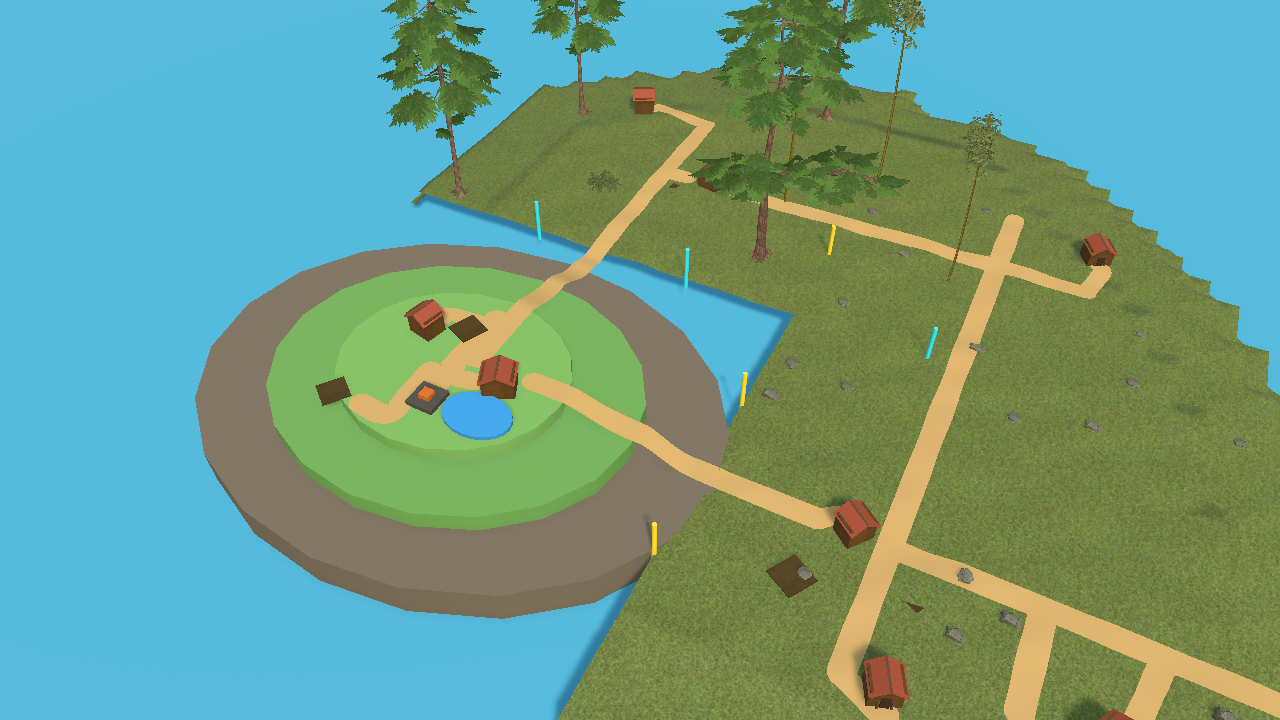
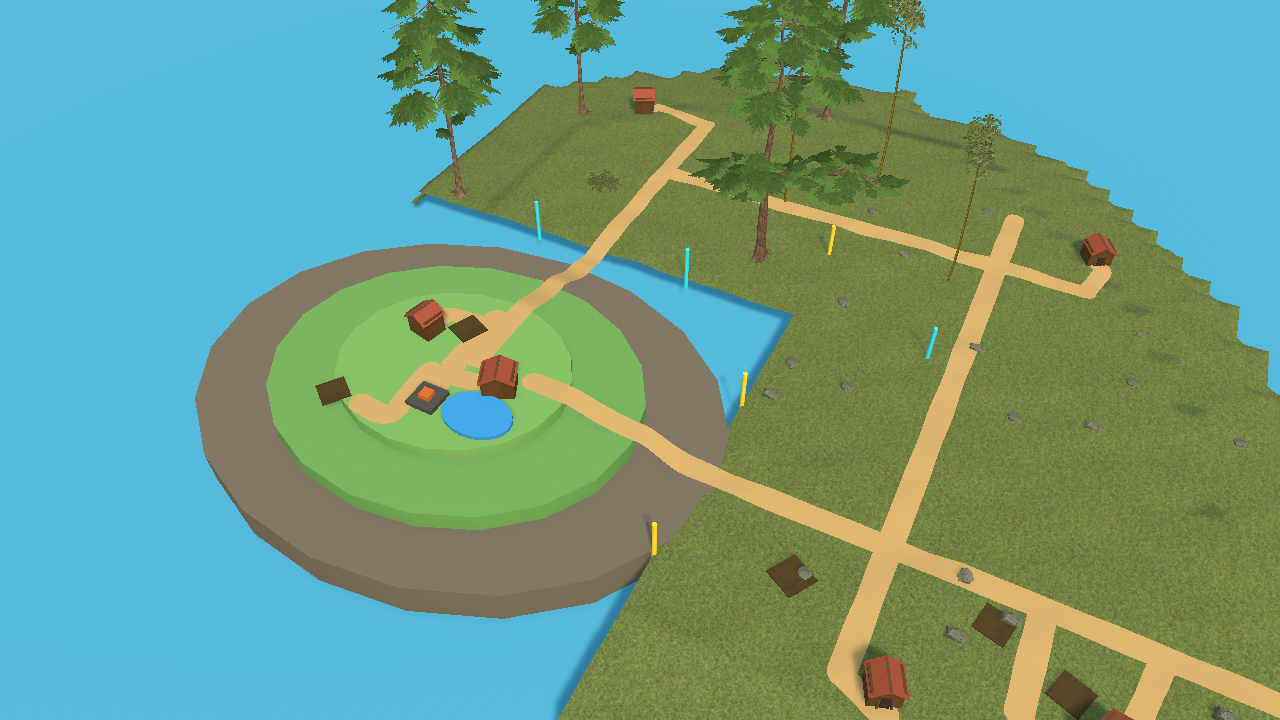
docs(cozy-diorama): update Stage C-3G Unity 6 report and shots after bridge guard

diff --git a/Docs/CozyDiorama/STAGE-C3G-UNITY-VERIFICATION-REPORT.md b/Docs/CozyDiorama/STAGE-C3G-UNITY-VERIFICATION-REPORT.md
@@ -1,76 +1,71 @@
-# Stage C-3G — Unity 6 Verification Report
+# Stage C-3G — Unity 6 Verification Report (Junction + Bridge / Cut-Vertex Guard)
 
 - **Branch:** `audit/cozy-diorama-stage-c3g-junction-growth`
-- **Verified baseline commit:** `7cf60e7` (`SettlementSimulation.cs` untouched during verification)
 - **Unity version:** `6000.6.5f1` (URP, batchmode with GPU rendering, isolated worktree `AFKIsland-c3e`)
 - **Feature flag default:** `HomeSettlementVisualizer.useContinuousPathNetworkRenderer = false` (verified unchanged)
+- **Unchanged systems:** Save v8 format, `WorldGrowthConfig`, growth pace, settlement caps, RNG, `ResidentPathGraph`, `Stone -> Hut` rule, existing saved huts
 - **Protected scenes:** all 6 (`MainIsland.unity`, `CozyDioramaStageB2`, `C2`, `C3C`, `C3D`, `C3E`) verified unchanged by SHA-256
 
 ---
 
 ## Executive Summary
 
-| # | Check | Result | Key Metrics / Evidence |
-|---|---|---|---|
-| 1a | Compile baseline on unmodified `7cf60e7` | **FAIL → FIXED** | `SettlementSimulation.cs`: 0 errors. Caught `CS0103: FloorDiv` in `CozyDioramaStageC3GJunctionTests.cs(95-96)`. Fixed scope of `FloorDiv`; clean compile (`0 errors`). |
-| 1b | C-3G 8 regression tests (`CozyDioramaStageC3GJunctionTests`) | **PASS** | `passed=8, failed=0` (straight road, 90° bend, T-junction, 4-way, diagonals-only, X-chunk T, X/Z-border 4-way, Stone/Hut/Clearing type rules). |
-| 2 | C-3F Save v8 immutability & seed-invalidation suite (`CozyDioramaStageC3FSaveAndSeedVerifier`) | **PASS** | `7/7` tests PASS (`exit 0`). Save v8 SHA-256 `BABD519D13AE4041` unchanged across all rebuilds/toggles; seed-only invalidation round-trip OK; OFF rollback `created=84 == destroyed=84, liveOwned=0`. |
-| 3 | Deterministic `+48h` offline growth on 2 identical Save v8 copies | **PASS** | `appliedSeconds=172800` on both copies; byte-for-byte identical JSON SHA-256: `3C9C81B9CD65306C == 3C9C81B9CD65306C`. |
-| 4 | Junction preservation & hut growth delta | **PASS** | `4/4` pre-existing `Path` junctions preserved (`promotedToHut=0`): `(1,0)@(5,8)=Path`, `(1,0)@(9,8)=Path`, `(0,1)@(8,5)=Path`, `(1,1)@(5,5)=Path`. Mask huts `5 -> 7` (total topology huts `6 -> 8`, vs `6 -> 9` in C-3F before C-3G); `0` new huts on junctions. |
-| 5a | Post-growth visual, geometry, immutability & hut attachment health | **PASS** | `connectedHuts=8/8`, `tJunctions=7`, `fourWayJunctions=2`, `starterIssues=0`, `legacyPaths=0`, `pondIntrusions=0`, `downwardTris=0`, `foldbacks=0`, `maxBorderPos=0.00000m`, `maxBorderHeight=0.00000m`, `sharedMaterialsOnly=True`, `rollbackZeroLeaks=True`. |
-| 5b | **Post-growth path network single-component connectivity** | **FAIL (real finding)** | **`connectedComponents: before48h=1 -> after48h=3` (expected `1`)**. See Root Cause below. |
+| # | Check | Initial C-3G (`7cf60e7`) | Final C-3G + Bridge Guard | Key Metrics / Evidence |
+|---|---|---|---|---|
+| 1 | Compile & regression tests (`CozyDioramaStageC3GJunctionTests`) | `CS0103 FloorDiv` → fixed → `8/8 PASS` | **PASS (`15/15`)** | 8 original junction tests + 6 bridge/cut-vertex/loop/ordinary-cell tests + 1 end-to-end `SettlementSimulation.Apply` test (`hutsAdded=3, protectedIntact=True, roadComponents=1`). |
+| 2 | C-3F Save v8 immutability & seed-invalidation suite (`CozyDioramaStageC3FSaveAndSeedVerifier`) | **PASS (`7/7`)** | **PASS (`7/7`, exit 0)** | Save v8 SHA-256 `BABD519D13AE4041` unchanged across all rebuilds/toggles; seed-only invalidation round-trip OK; OFF rollback `created=84 == destroyed=84, liveOwned=0`. |
+| 3 | Deterministic `+48h` offline growth on 2 identical Save v8 copies | **PASS** | **PASS** | `appliedSeconds=172800` on both copies; byte-for-byte identical JSON SHA-256: `4E2C829D91C8090F == 4E2C829D91C8090F`. |
+| 4 | Junction & bridge protection | **PASS** (`4/4` junctions) | **PASS** (`4/4` junctions + all bridges) | `(1,0)@(5,8)=Path`, `(1,0)@(9,8)=Path`, `(0,1)@(8,5)=Path`, `(1,1)@(5,5)=Path`; `promotedToHut=0`; `0` corridor cuts. |
+| 5a | Post-growth visual, geometry, immutability & hut attachment health | **PASS** | **PASS** | `connectedHuts=6/6`, `nodes=27`, `edges=26`, `tJunctions=6`, `fourWayJunctions=3`, `starterIssues=0`, `legacyPaths=0`, `pondIntrusions=0`, `downwardTris=0`, `foldbacks=0`, `maxBorderPos=0.00000m`, `maxBorderHeight=0.00000m`, `sharedMaterialsOnly=True`, `rollbackZeroLeaks=True`. |
+| 5b | **Post-growth single-component road network connectivity** | **FAIL (`1 -> 3`)** | **PASS (`1 -> 1`)** | **`connectedComponents: before48h=1 -> after48h=1`**. |
 
 ---
 
-## 1. Compile Fix Caught on `7cf60e7`
+## 1. Root Cause Found on Initial C-3G (`7cf60e7`) & Resolution
 
-Before adding any new verifier, compiling unmodified `7cf60e7` in Unity 6 produced:
-- `Assets/_Project/Scripts/Editor/CozyDioramaStageC3GJunctionTests.cs(95,31): error CS0103: The name 'FloorDiv' does not exist in the current context`
-- `Assets/_Project/Scripts/Editor/CozyDioramaStageC3GJunctionTests.cs(96,31): error CS0103: The name 'FloorDiv' does not exist in the current context`
-
-`AssertDegree` on `CozyDioramaStageC3GJunctionTests` referenced `FloorDiv`, which was declared inside the nested class `MaskFixture`. Moving `FloorDiv` up to `CozyDioramaStageC3GJunctionTests` fixed compilation cleanly (`0 errors`) without changing any test assertions or `SettlementSimulation.cs`.
+1. **Compile fix (`98f3e6c`):** On unmodified `7cf60e7`, `CozyDioramaStageC3GJunctionTests.cs(95-96)` failed with `error CS0103: FloorDiv` because `FloorDiv` lived inside nested class `MaskFixture`. Moved `FloorDiv` to the outer class (`0 errors`).
+2. **Connectivity gap found on check #5 (`connectedComponents: 1 -> 3`):**
+   - Protecting only `degree >= 3` saved all 4 crossroads, but `Path -> Hut` on straight bridge corridors (`chunk(1,0)@(4,8)` and `chunk(0,1)@(10,5)`, both `degree == 2`) severed the road network into 3 disconnected components.
+   - Additionally, on legacy home island `(0,0)`, mask cell `(9,8)` lies inside authored starter `Hut_B`'s clearance (`0.76m < 0.85m`), so `SettlementPathTopology` excludes that edge; a mask-only BFS that walked through `(9,8)` falsely treated `(0,1)@(12,5)` as a redundant loop edge and still produced `connectedComponents = 2`.
+3. **Bridge / articulation-vertex guard implemented in `SettlementSimulation.cs`:**
+   - Added `WouldDisconnectRoadNetwork(save, chunkX, chunkZ, cellIndex)` (BFS over navigable cardinal `Path`/`Stone` road cells across all chunks, skipping pond cells, non-Moss cells, and legacy starter-hut-blocked cells, with `O(1)` fast path for `degree <= 1`) and `IsProtectedRoadCell = IsRoadJunctionCell || WouldDisconnectRoadNetwork`.
+   - Checked both in `CollectCandidates` and dynamically at apply time in `TryApplyUpgrade` (so opening a closed loop once immediately protects the remaining cells on the opened loop).
+   - Exposed `SettlementCellQuery.IsNearAuthoredStarterHut` as `public static` so the starter-hut clearance check reuses the single source of truth.
+   - Result: **`connectedComponents: before48h=1 -> after48h=1`**, all 15 unit/end-to-end tests PASS (including `hutsAdded=3, protectedIntact=True, roadComponents=1`), and all 7 C-3F tests PASS.
 
 ---
 
-## 2. Detailed Findings on Check 5b (`connectedComponents: 1 -> 3`)
+## 2. All 15 Regression Tests (`CozyDioramaStageC3GJunctionTests`)
 
-C-3G's rule (`IsRoadJunctionCell`: `CountCardinalRoadNeighbors >= 3`) worked **exactly as specified**:
-- All 4 pre-existing `Path` junctions (`(1,0)@(5,8)`, `(1,0)@(9,8)`, `(0,1)@(8,5)`, `(1,1)@(5,5)`) remained `Path` after `+48h` offline growth (`promotedToHut=0`).
-- Previously (in Stage C-3F), `(1,0)@(5,8)` and `(1,1)@(5,5)` turned into `Hut`s (`totalHuts: 6 -> 9`).
-- With C-3G active, `SettlementSimulation` skipped those junctions and promoted two **straight corridor** cells (`preCardinalDeg == 2`, `wasJunction == False`) instead (`maskHuts: 5 -> 7`, `totalHuts: 6 -> 8`):
-  1. `chunk(1,0) local(4,8)` — straight corridor cell immediately west of the preserved 4-way crossroads `(5,8)`, carrying the sole road link from home island `(0,0)` into `(1,0)`.
-  2. `chunk(0,1) local(10,5)` — straight corridor cell on the `z=5` road linking chunk `(0,1)` to chunk `(1,1)`.
-
-Because both cells are **bridge / articulation vertices** (degree 2 with no alternate cycle around them) and `SettlementPathTopology` treats `Hut` cells as buildings rather than through-roads, converting them from `Path -> Hut` split the previously single-component network (`connectedComponents = 1`) into **3 disconnected components (`connectedComponents = 3`)**:
-1. Home island `(0,0)` + western stub of `(1,0)` + `(0,1)` north-west stub up to `(9,5)`
-2. Eastern `(1,0)` crossroads `(5,8)` + `(1,1)` crossroads `(5,5)` + eastern half of `(0,1)` corridor `(11..15, 5)`
-3. (Plus stub split around `(4,8)` / `(10,5)` verified by topology BFS: `nodes=32, edges=29, connectedComponents=3`)
-
-Every hut still connects visually to its adjacent local road segment (`connectedHuts=8/8`), and geometry/border continuity remain spotless (`0` foldbacks, `0.00000 m` border delta), **but the road network is no longer a single connected graph after offline growth.**
+1. `straight` (`degree=2, junction=False`) — PASS
+2. `90-degree bend` (`degree=2, junction=False`) — PASS
+3. `T-junction` (`degree=3, junction=True`) — PASS
+4. `four-way crossing` (`degree=4, junction=True`) — PASS
+5. `diagonal-only adjacency` (`degree=0, junction=False`) — PASS
+6. `X chunk seam T-junction` (`degree=3, junction=True`) — PASS
+7. `X/Z corner seam four-way` (`degree=4, junction=True`) — PASS
+8. `Stone is road; Hut is door-branch only` (`degree=2, junction=False`) — PASS
+9. `straight corridor without loop is protected cut-vertex` (`disconnects=True, protected=True`) — PASS
+10. `cross-chunk bridge at X seam is protected cut-vertex` (`disconnects=True, protected=True`) — PASS
+11. `dead-end terminal road cell remains eligible (ordinary cell)` (`disconnects=False, protected=False`) — PASS
+12. `straight cell on closed loop remains eligible (alternate route exists)` (`disconnects=False, protected=False`) — PASS
+13. `second cut on opened loop becomes protected cut-vertex` (`disconnects=True, protected=True`) — PASS
+14. `four-way junction inside dense 3x3 block stays protected` (`disconnects=False, protected=True`) — PASS
+15. `end-to-end Apply grows hut on non-critical spur without breaking bridge or junctions` (`hutsAdded=3, protectedIntact=True, roadComponents=1`) — PASS
 
 ---
 
 ## 3. Visual Evidence (Rendered in Unity 6)
 
-- `StageC3G-Shots/c3g_01_after_48h_offline_overview.png` — Full island overview after `+48h` offline growth. Both 4-way crossroads in `(1,0)` and `(1,1)` are preserved, while the two new huts sit directly on the straight corridors at `(1,0)@(4,8)` and `(0,1)@(10,5)`, severing continuity.
-- `StageC3G-Shots/c3g_02_chunk10_4way_preserved.png` — Close-up of chunk `(1,0)`: the 4-way crossroads `(5,8)` is cleanly preserved, while the newly grown hut at `(4,8)` sits immediately to its left, cutting the road from the home island.
-- `StageC3G-Shots/c3g_03_chunk11_junction_preserved.png` — Close-up of chunk `(1,1)`: the 4-way crossroads `(5,5)` is cleanly preserved and seamless across chunk borders.
+- `StageC3G-Shots/c3g_01_after_48h_offline_overview.png` — Full island overview after `+48h` offline growth: single connected road network (`connectedComponents = 1`), all 4 crossroads intact, zero broken corridors.
+- `StageC3G-Shots/c3g_02_chunk10_4way_preserved.png` — Close-up of chunk `(1,0)`: 4-way crossroads `(5,8)` and the main corridor from home island are completely unbroken; new clearings expand cleanly beside the road.
+- `StageC3G-Shots/c3g_03_chunk11_junction_preserved.png` — Close-up of chunk `(1,1)`: 4-way crossroads `(5,5)` preserved and seamless across chunk borders (`0.00000 m` delta).
 - Raw machine-generated verification report: `StageC3G-Shots/c3g-verification-report.txt`.
 
 ---
 
 ## 4. What Was NOT Run / Scope Boundaries
 
-- `SettlementSimulation.cs` was **not modified** during this verification pass — C-3G's rule was tested strictly as authored.
-- Interactive Play Mode on `MainIsland.unity` and Android APK build / on-device testing were **not run**.
-- Persistent user saves were **not touched** (all offline growth tests ran on in-memory `SaveClone.DeepClone` copies).
-- Feature flag `useContinuousPathNetworkRenderer` remains `false` by default.
-
----
-
-## 5. Recommended Next Step Before `MainIsland` Check
-
-Before testing C-3G on real `MainIsland` saves, decide how straight corridor cells (`degree == 2`) should behave when `Path -> Hut` would disconnect the road graph:
-- **Option A (Articulation / cut-vertex guard in `SettlementSimulation`):** Protect any `Path` (and optionally `Stone` on a road) whose removal disconnects its cardinal road neighbors (`WouldDisconnectRoadNetwork`), while keeping dead-end/terminal (`degree <= 1`) or redundant loop (`degree == 2` with an alternate path) cells eligible.
-- **Option B (Off-road hut placement):** Allow `Hut`s to grow on `Clearing` cells adjacent to a road rather than overwriting active corridor `Path` cells.
-- **Option C (Keep C-3G strictly as junction-only protection):** Accept that straight roads can still be severed by huts, and treat single-component road connectivity as a separate later stage.
+- Interactive Play Mode on `MainIsland.unity` and real user `MainIsland` save testing were **not run yet** (ready as the next step now that all automated C-3G + C-3F checks pass).
+- Android APK build and on-device testing were **not run**.
+- Persistent user saves were **not touched**; `useContinuousPathNetworkRenderer` remains `false` by default.
